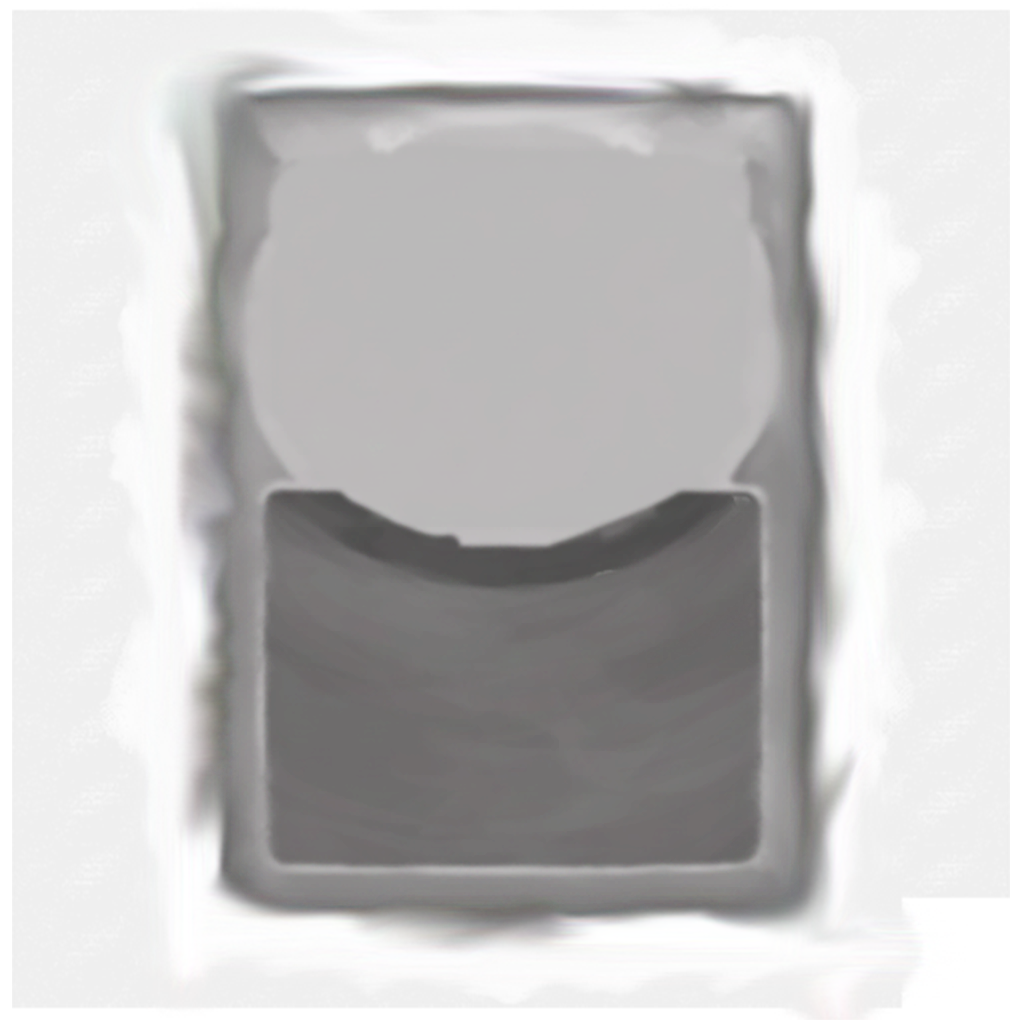
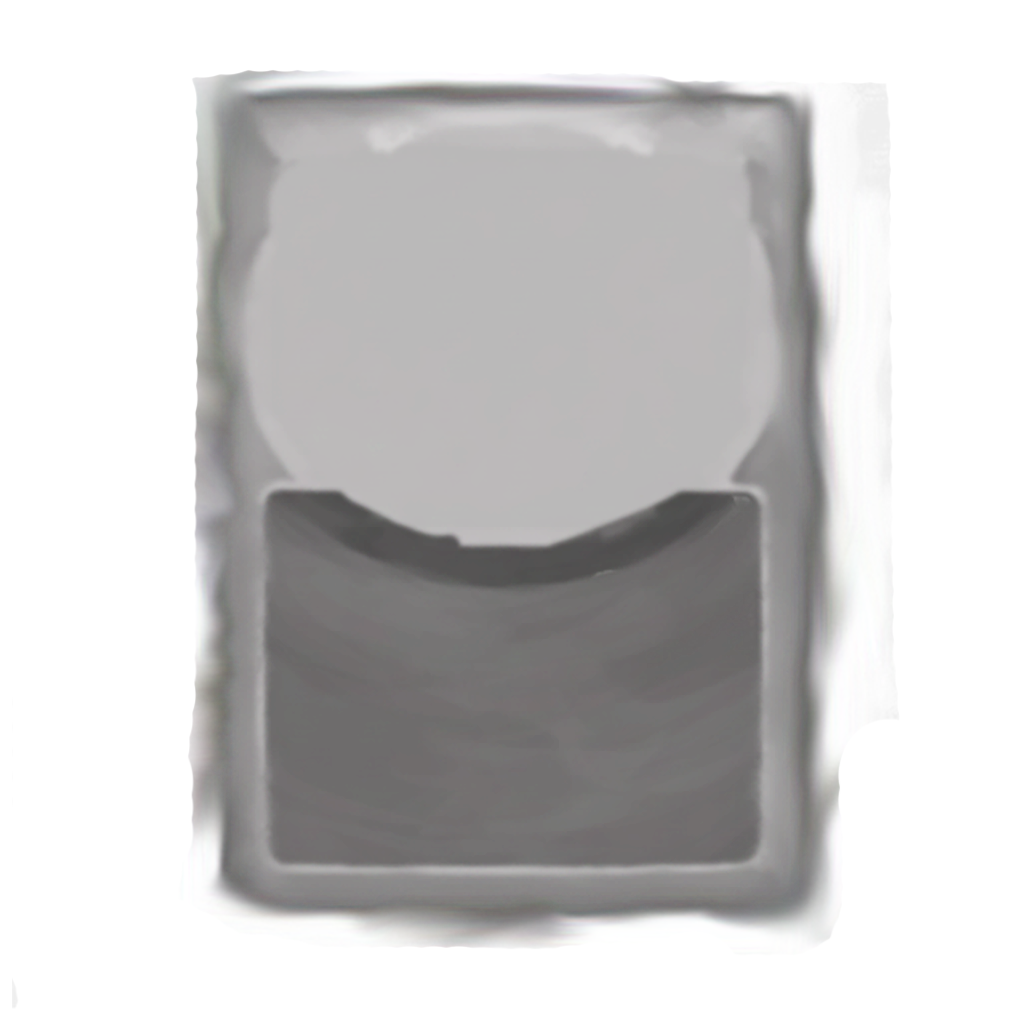
fixed some bugs

diff --git a/src/main/java/SS/cards/RecordingTeam.java b/src/main/java/SS/cards/RecordingTeam.java
@@ -45,11 +45,14 @@ public class RecordingTeam extends AbstractDoubleCard {
     }
 
     public void use(AbstractPlayer p, AbstractMonster m) {
-        if (p.getPower("Double:SinsPower") != null && p.getPower("Double:SinsPower").amount > this.magicNumber) {
-            addToBot(new ApplyPowerAction(p, p, new SinsPower(p, -this.magicNumber), -this.magicNumber));
-        } else {
-            addToTop(new RemoveSpecificPowerAction(p, p, "Double:SinsPower"));
+        if (p.getPower("Double:SinsPower") != null && p.getPower("Double:SinsPower").amount > 0) {
+            if (p.getPower("Double:SinsPower").amount > this.magicNumber) {
+                addToBot(new ApplyPowerAction(p, p, new SinsPower(p, -this.magicNumber), -this.magicNumber));
+            } else {
+                addToTop(new RemoveSpecificPowerAction(p, p, "Double:SinsPower"));
+            }
         }
+
         addToBot(new MakeTempCardInHandAction(this.cardsToPreview, this.magicNumber));
         for (int i = 0; i < this.magicNumber; ++i) {
             addToBot(new ChannelDiceAction(new AttackDice(this.damage, m)));

diff --git a/src/main/java/SS/cards/test/Volcano.java b/src/main/java/SS/cards/test/Volcano.java
@@ -21,7 +21,9 @@ import SS.interfaces.IEnvironmentCard;
 import SS.path.AbstractCardEnum;
 import SS.power.BleedingPower;
 import SS.power.VolcanoPower;
+import basemod.AutoAdd;
 
+@AutoAdd.Ignore
 public class Volcano extends AbstractDoubleCard implements IEnvironmentCard {
     public static final String ID = ModHelper.makePath("TestCard1");
     private static final CardStrings CARD_STRINGS = CardCrawlGame.languagePack.getCardStrings(ID);

diff --git a/src/main/java/SS/cards/test/TestEnvCard.java b/src/main/java/SS/cards/test/TestEnvCard.java
@@ -16,6 +16,9 @@ import SS.helper.ModHelper;
 import SS.interfaces.IEnvironmentCard;
 import SS.path.AbstractCardEnum;
 import SS.power.BleedingPower;
+import basemod.AutoAdd;
+
+@AutoAdd.Ignore
 
 public class TestEnvCard extends AbstractDoubleCard implements IEnvironmentCard {
     public static final String ID = ModHelper.makePath("TestCard");

diff --git a/src/main/java/SS/cards/Kindness.java b/src/main/java/SS/cards/Kindness.java
@@ -8,6 +8,7 @@ import com.megacrit.cardcrawl.core.CardCrawlGame;
 import com.megacrit.cardcrawl.dungeons.AbstractDungeon;
 import com.megacrit.cardcrawl.localization.CardStrings;
 import com.megacrit.cardcrawl.monsters.AbstractMonster;
+import basemod.AutoAdd;
 
 import SS.action.unique.KindnessAction;
 import SS.helper.ModHelper;

diff --git a/src/main/java/SS/cards/Diligence.java b/src/main/java/SS/cards/Diligence.java
@@ -7,6 +7,7 @@ import com.megacrit.cardcrawl.core.AbstractCreature;
 import com.megacrit.cardcrawl.core.CardCrawlGame;
 import com.megacrit.cardcrawl.localization.CardStrings;
 import com.megacrit.cardcrawl.monsters.AbstractMonster;
+import basemod.AutoAdd;
 
 import SS.action.unique.DiligenceAction;
 import SS.helper.ModHelper;

diff --git a/src/main/java/SS/cards/Charity.java b/src/main/java/SS/cards/Charity.java
@@ -6,6 +6,7 @@ import com.megacrit.cardcrawl.characters.AbstractPlayer;
 import com.megacrit.cardcrawl.core.CardCrawlGame;
 import com.megacrit.cardcrawl.localization.CardStrings;
 import com.megacrit.cardcrawl.monsters.AbstractMonster;
+import basemod.AutoAdd;
 
 import SS.helper.ModHelper;
 import SS.path.AbstractCardEnum;

diff --git a/src/main/java/SS/cards/Chastity.java b/src/main/java/SS/cards/Chastity.java
@@ -6,6 +6,7 @@ import com.megacrit.cardcrawl.characters.AbstractPlayer;
 import com.megacrit.cardcrawl.core.CardCrawlGame;
 import com.megacrit.cardcrawl.localization.CardStrings;
 import com.megacrit.cardcrawl.monsters.AbstractMonster;
+import basemod.AutoAdd;
 
 import SS.helper.ModHelper;
 import SS.path.AbstractCardEnum;

diff --git a/src/main/java/SS/cards/Humility.java b/src/main/java/SS/cards/Humility.java
@@ -6,6 +6,7 @@ import com.megacrit.cardcrawl.characters.AbstractPlayer;
 import com.megacrit.cardcrawl.core.CardCrawlGame;
 import com.megacrit.cardcrawl.localization.CardStrings;
 import com.megacrit.cardcrawl.monsters.AbstractMonster;
+import basemod.AutoAdd;
 
 import SS.helper.ModHelper;
 import SS.path.AbstractCardEnum;

diff --git a/src/main/java/SS/cards/Patience.java b/src/main/java/SS/cards/Patience.java
@@ -6,6 +6,7 @@ import com.megacrit.cardcrawl.characters.AbstractPlayer;
 import com.megacrit.cardcrawl.core.CardCrawlGame;
 import com.megacrit.cardcrawl.localization.CardStrings;
 import com.megacrit.cardcrawl.monsters.AbstractMonster;
+import basemod.AutoAdd;
 
 import SS.helper.ModHelper;
 import SS.path.AbstractCardEnum;

diff --git a/src/main/java/SS/cards/Temperance.java b/src/main/java/SS/cards/Temperance.java
@@ -6,6 +6,7 @@ import com.megacrit.cardcrawl.characters.AbstractPlayer;
 import com.megacrit.cardcrawl.core.CardCrawlGame;
 import com.megacrit.cardcrawl.localization.CardStrings;
 import com.megacrit.cardcrawl.monsters.AbstractMonster;
+import basemod.AutoAdd;
 
 import SS.helper.ModHelper;
 import SS.path.AbstractCardEnum;

diff --git a/ToDo.md b/ToDo.md
@@ -9,3 +9,10 @@
 - 里罗卡包没擦完
 - 回魂术触发时机晚于精灵（尝试找到不修改原游戏代码的解决方法）
 - 魂火出牌会被蟹粥塞
+- 待优化卡牌：
+  - 水视频，底牌，囤积居奇，藐视，硫黑，抱佛脚，复仇
+  - 颢牌多抓，换四领域大神，颢锤
+  - 神性，幽灵炸弹，怨灵回响
+  - 恶堕，夜战，夜幕降临
+  - 三圣颂，灵魂储能，轨道，正合列，创世记
+  - 困倦
